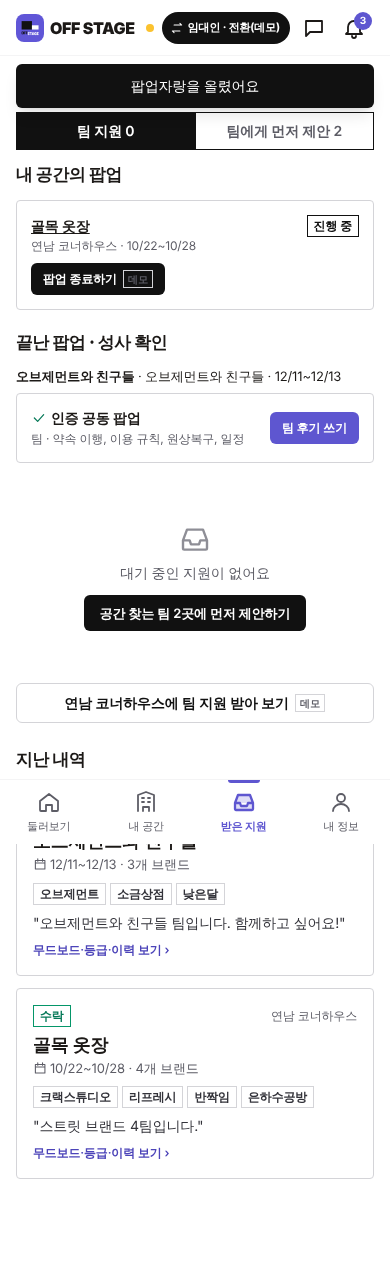
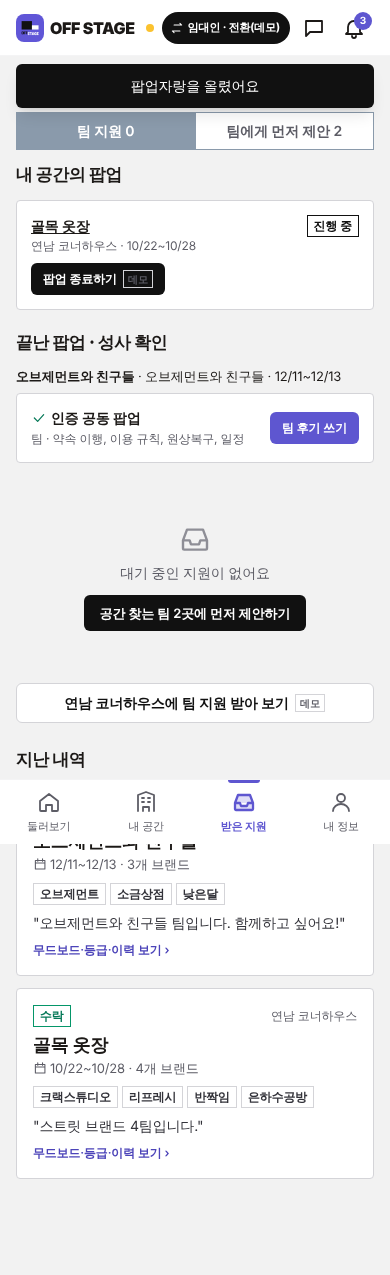
바탕을 연회색, 탭 줄을 블루그레이로
Claude-Session: https://claude.ai/code/session_0127PgxmrWax7HLBrSWBod79

Changed region(s): [[0.0308, 0.0612, 0.5231, 0.1224]]

diff --git a/src/components/ui.tsx b/src/components/ui.tsx
@@ -264,29 +264,29 @@ export function Stars({ value, onChange, size = 'w-6 h-6' }: { value: number; on
 
 export function Tabs<T extends string>({ items, value, onChange, className }: { items: { key: T; label: ReactNode }[]; value: T; onChange: (k: T) => void; className?: string }) {
   return (
-    <div className={cx('relative bg-white', className)}>
-      <div className="flex border-b border-ink-100 overflow-x-auto no-scrollbar">
+    <div className={cx('relative bg-band', className)}>
+      <div className="flex overflow-x-auto no-scrollbar">
         {items.map((it) => (
           <button
             key={it.key}
             onClick={(e) => { onChange(it.key); e.currentTarget.scrollIntoView?.({ inline: 'center', block: 'nearest', behavior: 'smooth' }); }}
-            className={cx('px-3.5 h-11 text-sm font-semibold whitespace-nowrap border-b-2 -mb-px', value === it.key ? 'border-ink-900 text-ink-900' : 'border-transparent text-ink-500')}
+            className={cx('px-3.5 h-11 text-sm font-semibold whitespace-nowrap border-b-2 -mb-px', value === it.key ? 'border-white text-white' : 'border-transparent text-white/70')}
           >
             {it.label}
           </button>
         ))}
         {items.length > 4 && <span className="w-6 shrink-0" />}
       </div>
-      {items.length > 4 && <div className="pointer-events-none absolute right-0 top-0 bottom-px w-8 bg-gradient-to-l from-white to-transparent" />}
+      {items.length > 4 && <div className="pointer-events-none absolute right-0 top-0 bottom-0 w-8 bg-gradient-to-l from-band to-transparent" />}
     </div>
   );
 }
 
 export function Segmented<T extends string>({ items, value, onChange }: { items: { key: T; label: ReactNode }[]; value: T; onChange: (k: T) => void }) {
   return (
-    <div className="flex border border-ink-900">
+    <div className="flex border border-band">
       {items.map((it) => (
-        <button key={it.key} onClick={() => onChange(it.key)} className={cx('flex-1 h-9 text-sm font-semibold border-l border-ink-900 first:border-l-0', value === it.key ? 'bg-ink-900 text-white' : 'bg-white text-ink-500')}>
+        <button key={it.key} onClick={() => onChange(it.key)} className={cx('flex-1 h-9 text-sm font-semibold border-l border-band first:border-l-0', value === it.key ? 'bg-band text-white' : 'bg-white text-ink-500')}>
           {it.label}
         </button>
       ))}

diff --git a/src/screens/Explore.tsx b/src/screens/Explore.tsx
@@ -17,12 +17,12 @@ export default function Explore() {
   const [view, setView] = useState<View>('brand');
   return (
     <div>
-      <div className="sticky top-14 z-20 bg-white px-4 flex gap-5 border-b border-ink-100">
+      <div className="sticky top-14 z-20 bg-band px-4 flex gap-5">
         {([{ key: 'brand', label: '홈' }, { key: 'magazine', label: '매거진' }, { key: 'showcase', label: '팝업자랑' }, { key: 'qna', label: 'Q&A' }] as { key: View; label: string }[]).map((it) => (
           <button
             key={it.key}
             onClick={() => { setView(it.key); window.scrollTo?.(0, 0); }}
-            className={cx('h-11 text-[16px] font-extrabold border-b-2 -mb-px', view === it.key ? 'border-ink-900 text-ink-900' : 'border-transparent text-ink-500/70')}
+            className={cx('h-11 text-[16px] font-extrabold border-b-2 -mb-px', view === it.key ? 'border-white text-white' : 'border-transparent text-white/70')}
           >
             {it.label}
           </button>

diff --git a/src/screens/Team.tsx b/src/screens/Team.tsx
@@ -446,7 +446,7 @@ export function TeamIntroPage({ db, team, compact }: { db: DB; team: Team; compa
             return im ? <Swatch key={id} src={lookbookSrc(im)} hue={im.hue} pattern={im.pattern} className="aspect-square" rounded="" /> : null;
           })}
         </div>
-        <div className="p-4 bg-ink-900 text-white">
+        <div className="p-4 bg-band text-white">
           <div className="text-[12px] text-white/60">팀 소개 · {team.members.length}개 브랜드</div>
           <div className="text-lg font-extrabold">{team.name}</div>
           <div className="text-sm text-white/80 mt-0.5">"{mb?.headline}"</div>

diff --git a/tailwind.config.js b/tailwind.config.js
@@ -6,6 +6,9 @@ export default {
       colors: {
         // 로고의 보라(#5E56D0)를 기준으로 한 브랜드 색
         brand: { 50: '#f1f0fc', 100: '#e2e0f9', 200: '#c5c1f2', 400: '#8b84e3', 500: '#5e56d0', 600: '#4c44b9', 700: '#3b3495' },
+        // 바탕(연회색)과 탭 줄(블루그레이)
+        paper: '#f2f2f2',
+        band: '#8a9aab',
         ink: { 900: '#111111', 700: '#33333a', 500: '#5d5d66', 400: '#8e8e96', 300: '#d4d4d8', 100: '#f4f4f5' },
       },
       fontFamily: { sans: ['Pretendard Variable', 'Pretendard', 'Apple SD Gothic Neo', 'Noto Sans KR', 'system-ui', 'sans-serif'] },

diff --git a/src/App.tsx b/src/App.tsx
@@ -170,7 +170,7 @@ export default function App() {
   const isOnboarding = route.name === 'onboarding';
   return (
     <div className="min-h-screen flex justify-center">
-      <div className="relative w-full max-w-[430px] min-h-screen bg-white shadow-xl">
+      <div className="relative w-full max-w-[430px] min-h-screen bg-paper shadow-xl">
         {isTab && <TopBar />}
         <main className={cx((isTab || !isOnboarding) && 'main-safe')}>{renderRoute(route)}</main>
         {isTab && <BottomTabs current={route.name === 'tab' ? route.tab : undefined} />}
